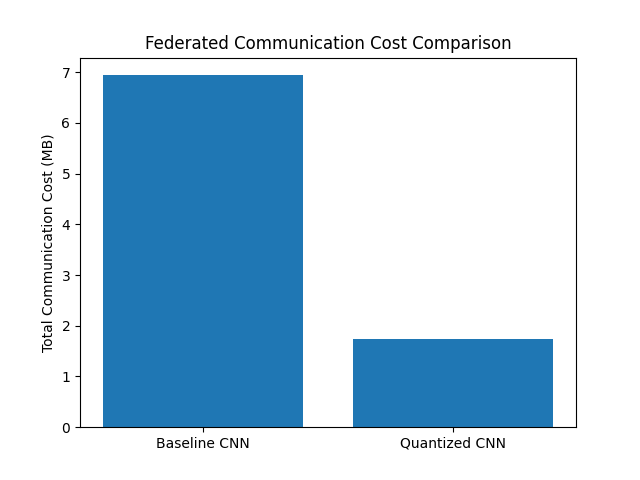
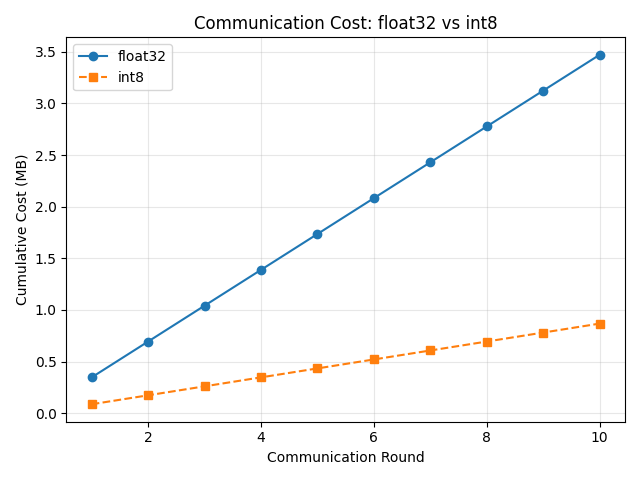
Finished federated_simulation.py

diff --git a/federated_simulation.py b/federated_simulation.py
@@ -1,128 +1,282 @@
 import os
+import copy
 import json
+import torch
+import torchvision
+import torchvision.transforms as transforms
+
+from torch import nn, optim
+from torch.utils.data import DataLoader, random_split
+
 import pandas as pd
 import matplotlib.pyplot as plt
 
-# create results folder if it does not exist
+from baseline_mnist import CNN
+
 os.makedirs("results", exist_ok=True)
 
+device = torch.device("cuda" if torch.cuda.is_available() else "cpu")
 
-# estimating total communication cost
-# formula: parameters * clients * rounds * bytes per parameter
-def estimate_communication_cost(
-    parameter_count,           # no. of model parameters getting sent
-    clients=10,                # no. of edge devices
-    rounds=20,                 # no. of communication rounds
-    bytes_per_parameter=4,     # size of each parameter
-):
+NUM_CLIENTS   = 5
+ROUNDS        = 10
+LOCAL_EPOCHS  = 1
+BATCH_SIZE    = 64
+LEARNING_RATE = 0.001
 
-    if parameter_count < 0:
-        raise ValueError("parameter_count cannot be negative")
+transform = transforms.Compose([
+    transforms.ToTensor(),
+    transforms.Normalize((0.1307,), (0.3081,))
+])
 
-    if clients <= 0:
-        raise ValueError("clients must be greater than 0")
+train_dataset = torchvision.datasets.MNIST(
+    root="./data",
+    train=True,
+    download=True,
+    transform=transform
+)
 
-    if rounds <= 0:
-        raise ValueError("rounds must be greater than 0")
+test_dataset = torchvision.datasets.MNIST(
+    root="./data",
+    train=False,
+    download=True,
+    transform=transform
+)
 
-    if bytes_per_parameter <= 0:
-        raise ValueError("bytes_per_parameter must be greater than 0")
+test_loader = DataLoader(test_dataset, batch_size=BATCH_SIZE)
 
-    # calculating total bytes
-    total_bytes = parameter_count * clients * rounds * bytes_per_parameter
+client_size     = len(train_dataset) // NUM_CLIENTS
+lengths         = [client_size] * NUM_CLIENTS
+client_datasets = random_split(train_dataset, lengths)
 
-    # converting bytes into megabytes so the result is easier to read
-    total_mb = total_bytes / (1024 * 1024)
+client_loaders = [
+    DataLoader(ds, batch_size=BATCH_SIZE, shuffle=True)
+    for ds in client_datasets
+]
 
-    return {
-        "parameter_count": parameter_count,
-        "clients": clients,
-        "rounds": rounds,
-        "bytes_per_parameter": bytes_per_parameter,
-        "total_bytes": total_bytes,
-        "total_mb": total_mb,
-    }
+
+def train_local(model, loader):
+    model.train()
+    criterion = nn.CrossEntropyLoss()
+    optimizer = optim.Adam(model.parameters(), lr=LEARNING_RATE)
+
+    for epoch in range(LOCAL_EPOCHS):
+        for images, labels in loader:
+            images = images.to(device)
+            labels = labels.to(device)
+            optimizer.zero_grad()
+            loss = criterion(model(images), labels)
+            loss.backward()
+            optimizer.step()
+
+    return model.state_dict()
+
+
+def average_weights(local_weights):
+    avg = copy.deepcopy(local_weights[0])
+    for key in avg.keys():
+        for i in range(1, len(local_weights)):
+            avg[key] += local_weights[i][key]
+        avg[key] = avg[key] / len(local_weights)
+    return avg
+
+
+def quantize_weights(state_dict):
+    quantized = {}
+    for key, tensor in state_dict.items():
+        t = tensor.float()
+        scale = t.abs().max() / 127.0
+        scale = scale if scale > 0 else torch.tensor(1.0)
+        q = torch.clamp(torch.round(t / scale), -128, 127).to(torch.int8)
+        quantized[key] = (q, scale)
+    return quantized
+
+
+def dequantize_weights(quantized):
+    state_dict = {}
+    for key, (q, scale) in quantized.items():
+        state_dict[key] = q.float() * scale
+    return state_dict
+
+
+def average_quantized_weights(quantized_list):
+    float_weights = [dequantize_weights(q) for q in quantized_list]
+    return average_weights(float_weights)
+
+
+def evaluate(model):
+    model.eval()
+    correct = 0
+    total   = 0
+    with torch.no_grad():
+        for images, labels in test_loader:
+            images = images.to(device)
+            labels = labels.to(device)
+            _, predicted = torch.max(model(images), 1)
+            total   += labels.size(0)
+            correct += (predicted == labels).sum().item()
+    return 100 * correct / total
+
+
+def model_parameter_count(model):
+    return sum(p.numel() for p in model.parameters())
+
+
+def communication_cost_mb(parameter_count, clients, bytes_per_param):
+    return (2 * parameter_count * clients * bytes_per_param) / (1024 * 1024)
+
+
+def rounds_to_target(accuracy_log, target_pct):
+    for rnd, acc in enumerate(accuracy_log, start=1):
+        if acc >= target_pct:
+            return rnd
+    return None
+
+
+def run_fedavg(global_model, quantized=False):
+    model = copy.deepcopy(global_model)
+    accuracy_log = []
+    results      = []
+
+    parameter_count     = model_parameter_count(model)
+    bytes_per_param     = 1 if quantized else 4
+    cost_per_round      = communication_cost_mb(parameter_count, NUM_CLIENTS, bytes_per_param)
+    cumulative_cost     = 0.0
+
+    label = "int8 (quantized)" if quantized else "float32"
+
+    for round_num in range(1, ROUNDS + 1):
+        print(f"\n  --- Round {round_num} ({label}) ---")
+
+        local_weights = []
+        for client_id in range(NUM_CLIENTS):
+            local_model = copy.deepcopy(model)
+            weights     = train_local(local_model, client_loaders[client_id])
+
+            if quantized:
+                local_weights.append(quantize_weights(weights))
+            else:
+                local_weights.append(weights)
+
+        if quantized:
+            averaged = average_quantized_weights(local_weights)
+        else:
+            averaged = average_weights(local_weights)
+
+        model.load_state_dict(averaged)
+
+        accuracy         = evaluate(model)
+        cumulative_cost += cost_per_round
+        accuracy_log.append(accuracy)
+
+        print(f"  Accuracy:         {accuracy:.2f}%")
+        print(f"  Cumulative cost:  {cumulative_cost:.4f} MB")
+
+        results.append({
+            "round":           round_num,
+            "accuracy":        round(accuracy, 2),
+            "cost_per_round":  round(cost_per_round, 4),
+            "cumulative_cost": round(cumulative_cost, 4),
+        })
+
+    return accuracy_log, results, cost_per_round, cumulative_cost
 
 
 if __name__ == "__main__":
+    baseline_acc = None
+    if os.path.exists("results/results_baseline.json"):
+        with open("results/results_baseline.json") as f:
+            baseline_acc = json.load(f)["test_accuracy"]
 
-    # model parameter count from our CNN model
-    baseline_params = 9098
-    quantized_params = 9098
+    parameter_count = model_parameter_count(CNN(in_channels=1, num_classes=10))
+    print("\n" + "=" * 55)
+    print("FedAvg — float32 communication")
+    print("=" * 55)
 
-    # simulation setup
-    clients = 10
-    rounds = 20
-
-    # baseline model uses float32, so each parameter is 4 bytes
-    baseline_cost = estimate_communication_cost(
-        parameter_count=baseline_params,
-        clients=clients,
-        rounds=rounds,
-        bytes_per_parameter=4,
+    global_model_f32 = CNN(in_channels=1, num_classes=10).to(device)
+    acc_log_f32, results_f32, cost_round_f32, total_cost_f32 = run_fedavg(
+        global_model_f32, quantized=False
     )
+    print("\n" + "=" * 55)
+    print("FedAvg — int8 quantized communication")
+    print("=" * 55)
 
-    # quantized model uses int8, so each parameter is 1 byte
-    quantized_cost = estimate_communication_cost(
-        parameter_count=quantized_params,
-        clients=clients,
-        rounds=rounds,
-        bytes_per_parameter=1,
+    global_model_i8 = CNN(in_channels=1, num_classes=10).to(device)
+    acc_log_i8, results_i8, cost_round_i8, total_cost_i8 = run_fedavg(
+        global_model_i8, quantized=True
     )
+    rounds_95_f32_self     = rounds_to_target(acc_log_f32, 0.95 * acc_log_f32[-1])
+    rounds_95_i8_self      = rounds_to_target(acc_log_i8,  0.95 * acc_log_i8[-1])
+    rounds_95_f32_baseline = rounds_to_target(acc_log_f32, 0.95 * baseline_acc) if baseline_acc else None
+    rounds_95_i8_baseline  = rounds_to_target(acc_log_i8,  0.95 * baseline_acc) if baseline_acc else None
 
-    # calculate communication reduction
-    reduction_percent = (
-        (baseline_cost["total_mb"] - quantized_cost["total_mb"])
-        / baseline_cost["total_mb"]
-    ) * 100
+    print(f"\nRounds to 95% of own final accuracy  — f32: {rounds_95_f32_self}  |  int8: {rounds_95_i8_self}")
+    print(f"Rounds to 95% of baseline accuracy   — f32: {rounds_95_f32_baseline}  |  int8: {rounds_95_i8_baseline}")
+    df_f32 = pd.DataFrame(results_f32)
+    df_i8  = pd.DataFrame(results_i8)
 
-    print("Baseline communication cost:", round(baseline_cost["total_mb"], 4), "MB")
-    print("Quantized communication cost:", round(quantized_cost["total_mb"], 4), "MB")
-    print("Communication cost reduction:", round(reduction_percent, 2), "%")
+    df_f32.to_csv("results/federated_results_f32.csv", index=False)
+    df_i8.to_csv("results/federated_results_i8.csv",   index=False)
 
-    # create table for comparison
-    simulation_data = {
-        "Model": ["Baseline CNN", "Quantized CNN"],
-        "Parameters": [baseline_params, quantized_params],
-        "Clients": [clients, clients],
-        "Rounds": [rounds, rounds],
-        "Bytes per Parameter": [4, 1],
-        "Total Communication Cost (MB)": [
-            round(baseline_cost["total_mb"], 4),
-            round(quantized_cost["total_mb"], 4),
-        ],
-    }
-
-    simulation_df = pd.DataFrame(simulation_data)
-
-    print("\n===== FEDERATED SIMULATION RESULTS =====")
-    print(simulation_df)
-
-    # save table as csv
-    simulation_df.to_csv("results/federated_simulation_results.csv", index=False)
-
-    # save summary as json
+    df_combined = pd.DataFrame({
+        "round":       df_f32["round"],
+        "accuracy_f32": df_f32["accuracy"],
+        "accuracy_i8":  df_i8["accuracy"],
+        "cumulative_cost_f32": df_f32["cumulative_cost"],
+        "cumulative_cost_i8":  df_i8["cumulative_cost"],
+    })
+    df_combined.to_csv("results/federated_results.csv", index=False)
     summary = {
-        "clients": clients,
-        "rounds": rounds,
-        "baseline_parameters": baseline_params,
-        "quantized_parameters": quantized_params,
-        "baseline_total_mb": round(baseline_cost["total_mb"], 4),
-        "quantized_total_mb": round(quantized_cost["total_mb"], 4),
-        "communication_reduction_percent": round(reduction_percent, 2),
+        "num_clients":  NUM_CLIENTS,
+        "rounds":       ROUNDS,
+        "local_epochs": LOCAL_EPOCHS,
+        "parameters":   parameter_count,
+        "float32": {
+            "final_accuracy":         round(acc_log_f32[-1], 2),
+            "cost_per_round_mb":      round(cost_round_f32,  4),
+            "total_cost_mb":          round(total_cost_f32,  4),
+            "rounds_to_95pct_self":   rounds_95_f32_self,
+            "rounds_to_95pct_baseline": rounds_95_f32_baseline,
+            "per_round":              results_f32,
+        },
+        "int8": {
+            "final_accuracy":         round(acc_log_i8[-1], 2),
+            "cost_per_round_mb":      round(cost_round_i8,  4),
+            "total_cost_mb":          round(total_cost_i8,  4),
+            "rounds_to_95pct_self":   rounds_95_i8_self,
+            "rounds_to_95pct_baseline": rounds_95_i8_baseline,
+            "per_round":              results_i8,
+        },
     }
 
-    with open("results/federated_simulation_summary.json", "w") as f:
+    with open("results/federated_results.json", "w") as f:
         json.dump(summary, f, indent=4)
 
-    # create graph for communication cost comparison
     plt.figure()
-    plt.bar(simulation_df["Model"], simulation_df["Total Communication Cost (MB)"])
-    plt.ylabel("Total Communication Cost (MB)")
-    plt.title("Federated Communication Cost Comparison")
+    plt.plot(df_combined["round"], df_combined["accuracy_f32"], marker="o", label="float32")
+    plt.plot(df_combined["round"], df_combined["accuracy_i8"],  marker="s", label="int8", linestyle="--")
+    plt.xlabel("Communication Round")
+    plt.ylabel("Accuracy (%)")
+    plt.title("Federated Learning Accuracy: float32 vs int8")
+    plt.legend()
+    plt.grid(True, alpha=0.3)
+    plt.tight_layout()
+    plt.savefig("results/federated_accuracy.png")
+    plt.close()
+
+    plt.figure()
+    plt.plot(df_combined["round"], df_combined["cumulative_cost_f32"], marker="o", label="float32")
+    plt.plot(df_combined["round"], df_combined["cumulative_cost_i8"],  marker="s", label="int8", linestyle="--")
+    plt.xlabel("Communication Round")
+    plt.ylabel("Cumulative Cost (MB)")
+    plt.title("Communication Cost: float32 vs int8")
+    plt.legend()
+    plt.grid(True, alpha=0.3)
+    plt.tight_layout()
     plt.savefig("results/federated_communication_cost.png")
     plt.close()
 
-    print("\nSaved results to results/federated_simulation_results.csv")
-    print("Saved summary to results/federated_simulation_summary.json")
-    print("Saved graph to results/federated_communication_cost.png")
+    print("\nTraining complete.")
+    print(df_combined.to_string(index=False))
+    print(f"\nSaved results to results/federated_results.csv")
+    print(f"Saved summary to results/federated_results.json")
+    print(f"Saved plots to results/federated_accuracy.png and results/federated_communication_cost.png")

diff --git a/optimized_pruned.py b/optimized_pruned.py
@@ -200,4 +200,4 @@ if __name__ == "__main__":
     with open("results/results_pruning_summary.json", "w") as f:
         json.dump(all_results, f, indent=4)
 
-    print("\nCombined summary saved → results/results_pruning_summary.json")
+    print("\nCombined summary saved to results/results_pruning_summary.json")
